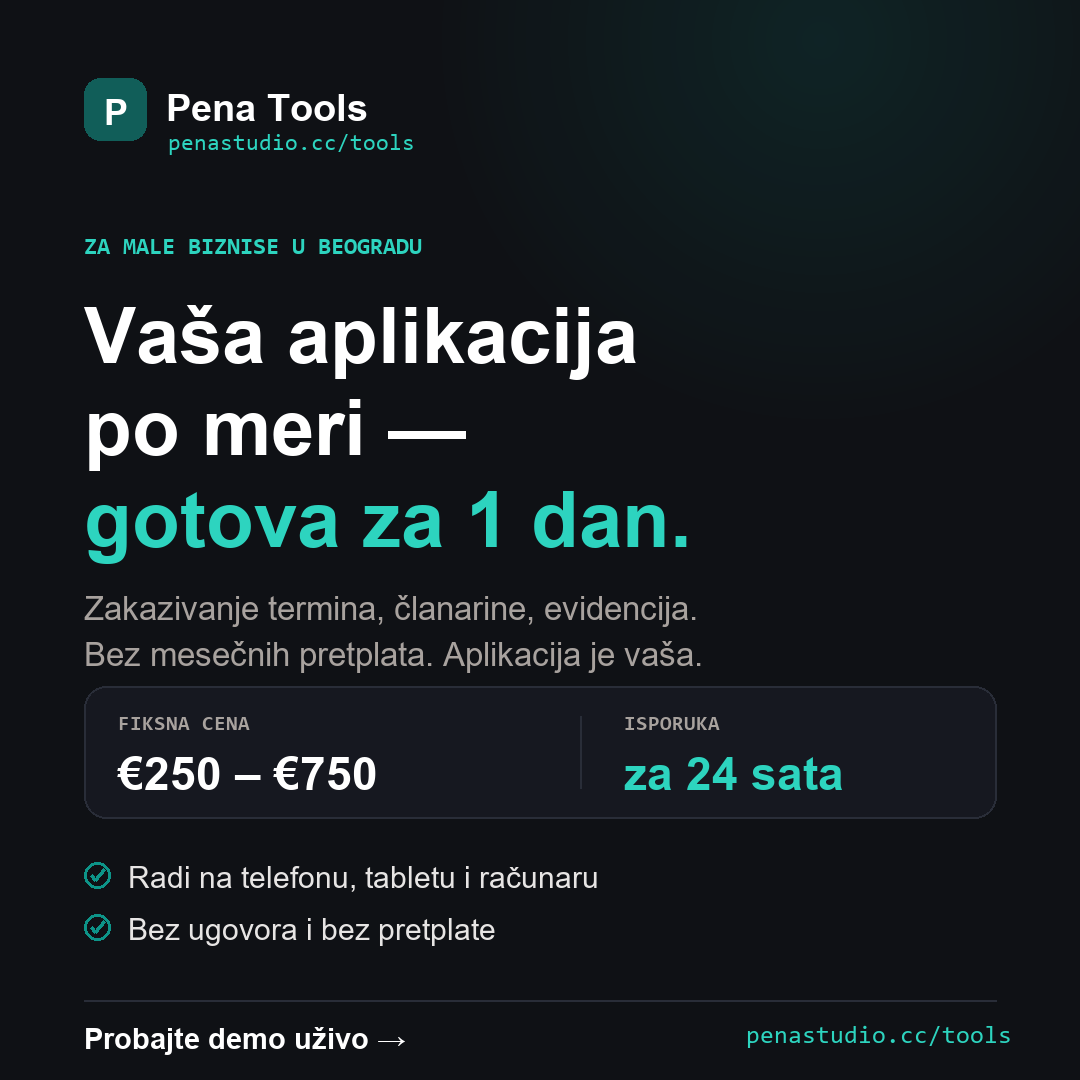
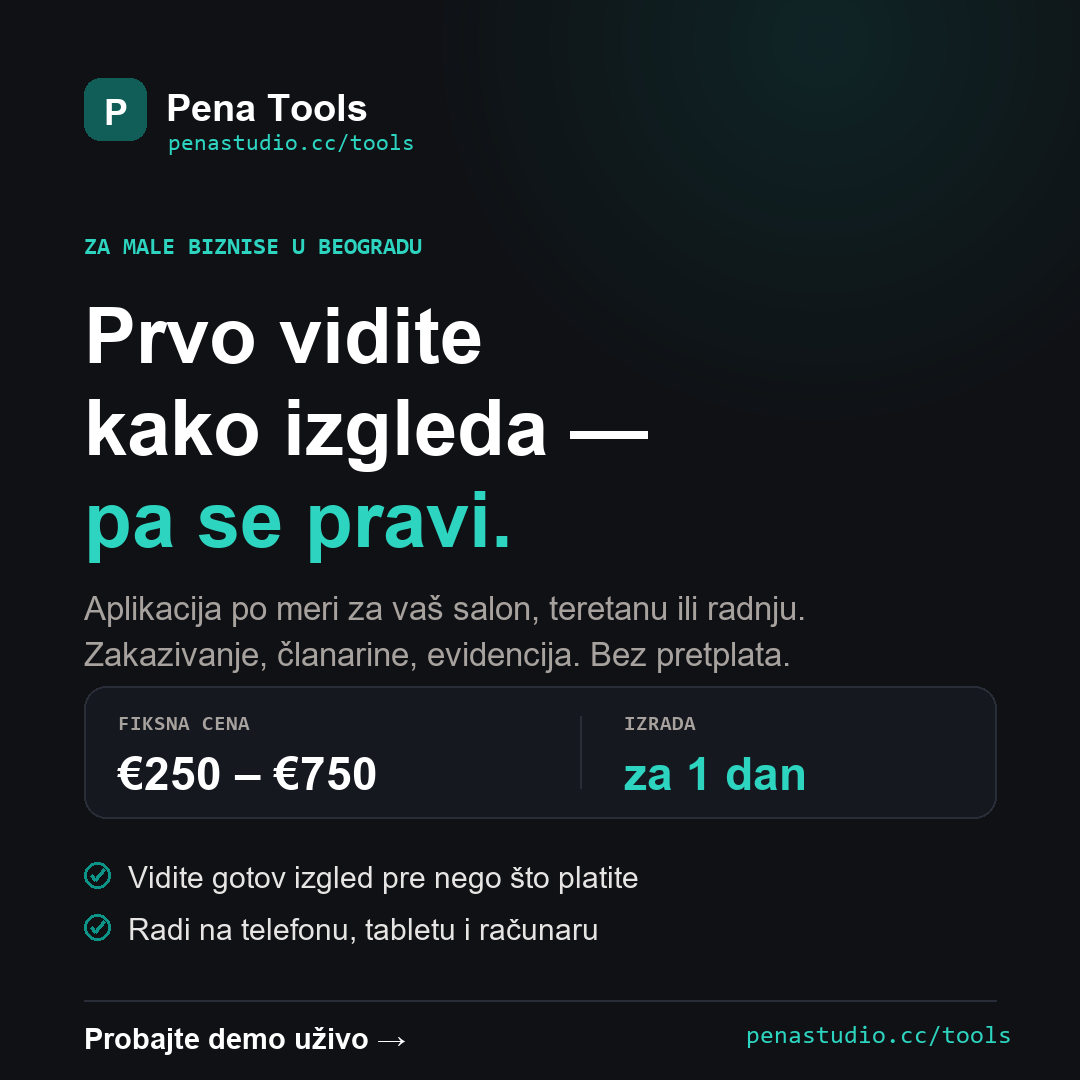
Explain the 1-day promise: design first, approve, then build
The flat "delivered in 24 hours" claim skipped the part that actually sells
this and de-risks it for the buyer: they see finished screens of their own
app before anything is written, and revise them for free.

- How it works is now 4 steps (idea -> design -> your changes -> next day),
  grid widened to hold them
- FAQ "how is one day possible" now has a real answer: by build day every
  decision is already approved, so the day is execution, not discovery
- hero trust point leads with "you approve the design first" rather than a
  bare 24h claim, which was the weakest promise to make and the easiest to
  break on a nights-and-weekends schedule
- "what's included" lists the 2-3 screen designs and free design revisions
- pricing CTA line: you only pay once you approve

Instagram asset re-cut to match - it previously advertised "isporuka za 24
sata", which is no longer what is being promised.

diff --git a/tools-src/src/translations.ts b/tools-src/src/translations.ts
@@ -19,7 +19,7 @@ export const translations: Record<Language, TranslationContent> = {
       ctaPrimary: 'Get a free demo',
       ctaSecondary: 'Try live demos',
       trustPoints: [
-        'Delivered in 24 hours',
+        'You approve the design first',
         'Fixed fee €250 – €750',
         'You own it — 100% no lock-in',
       ],
@@ -71,41 +71,53 @@ export const translations: Record<Language, TranslationContent> = {
       ],
     },
     howItWorks: {
-      eyebrow: 'Clear 3-Step Process',
-      title: 'How it works: from idea to live tool in 24 hours',
+      eyebrow: 'Clear 4-Step Process',
+      title: 'How it works: you see the design before anything is built',
       subtitle:
-        'No endless meetings. No 40-page requirement documents. You show me what you track, I build it.',
+        'No endless meetings. No 40-page requirement documents. You tell me what you track, I show you the screens, and only then do I build.',
       steps: [
         {
           stepNumber: '01',
-          title: 'We talk (30 min)',
-          timeframe: 'Morning or afternoon call',
+          title: 'You tell me the idea',
+          timeframe: '30-minute call',
           description:
-            'A 30-minute phone call or WhatsApp screen share. You show me your notebook, your chat, or your sheet and tell me what drives you crazy.',
+            'A phone call or WhatsApp screen share. You show me your notebook, your chat, or your sheet and tell me what drives you crazy.',
           details: [
             'No technical preparation required',
-            'I ask about your daily routine',
-            'We agree on exactly what belongs on the screen',
+            'We talk in plain language about your day',
+            'We agree on what belongs on the screen',
           ],
         },
         {
           stepNumber: '02',
-          title: 'We build it that night',
-          timeframe: 'Overnight delivery',
+          title: 'I send you the design',
+          timeframe: 'Same day',
           description:
-            'I code a clean, fast web app tailored to your exact business workflow. Only the buttons and fields you actually use.',
+            'Two or three real screen designs of your app - your services, your staff, your prices. Not a template: the actual thing you will be tapping.',
           details: [
-            'Optimized for mobile, tablet, and counter PC',
-            'Fast loading, no slow bloated menus',
-            'Automatic backups and simple data view',
+            '2-3 finished screens, not sketches',
+            'Your own data used as the example',
+            'You see it before a single line is written',
           ],
         },
         {
           stepNumber: '03',
-          title: 'You use it tomorrow',
-          timeframe: 'Next day morning',
+          title: 'You ask for changes',
+          timeframe: 'Same day',
           description:
-            'You get a private link. Tap "Add to Home Screen" on your phone or tablet and start using it immediately with your staff.',
+            'Move a button, rename a field, drop something you will never use, add something I missed. Changes at this stage are free and instant.',
+          details: [
+            'Nothing gets built until you approve',
+            'Changing a picture is cheap, changing an app is not',
+            'As many rounds as it takes to get it right',
+          ],
+        },
+        {
+          stepNumber: '04',
+          title: 'You get it the next day',
+          timeframe: 'Next day',
+          description:
+            'Once you approve the design I build it in a day. You get a private link, tap "Add to Home Screen", and start using it with your staff.',
           details: [
             'Short 3-minute video showing how it works',
             '14 days of free minor adjustments included',
@@ -171,7 +183,9 @@ export const translations: Record<Language, TranslationContent> = {
       includedItems: [
         'Complete custom web application tailored to your business',
         'Works seamlessly on iPhone, Android, iPad, and counter PC',
-        'Personal 30-minute kickoff & 1-day turnaround',
+        '2-3 finished screen designs to approve before anything is built',
+        'Free design revisions until you are happy with it',
+        'Personal 30-minute kickoff, built the day you approve',
         '3-minute custom staff video tutorial',
         '14 days of free minor tweaks and text adjustments',
         'Full export of all your customer & appointment data anytime',
@@ -193,7 +207,7 @@ export const translations: Record<Language, TranslationContent> = {
         {
           question: 'How can you realistically build an app in a single day?',
           answer:
-            'Because we don’t build giant, bloated systems with features you will never use. We build hyper-focused tools designed solely for your specific daily routine. Since I do not carry corporate overhead or agency bureaucracy, a focused 8-hour sprint is more than enough to deliver a clean, battle-tested tool.',
+            'Because by the time I start building, every decision is already made. You approve two or three finished screen designs first, so the build day is pure execution - no guessing, no rewrites, no "actually, can we move that". Add the fact that these are hyper-focused tools for one daily routine rather than bloated systems, and no agency overhead, and a focused day is more than enough.',
         },
         {
           question: 'What if I need changes or extra features later on?',
@@ -269,7 +283,7 @@ export const translations: Record<Language, TranslationContent> = {
       ctaPrimary: 'Zatražite besplatan demo',
       ctaSecondary: 'Pogledajte primere uživo',
       trustPoints: [
-        'Isporuka za 24 sata',
+        'Prvo odobrite izgled',
         'Fiksna cena €250 – €750',
         'Aplikacija je vaša — bez pretplate i ugovora',
       ],
@@ -321,41 +335,53 @@ export const translations: Record<Language, TranslationContent> = {
       ],
     },
     howItWorks: {
-      eyebrow: 'Jasna 3 koraka',
-      title: 'Kako funkcioniše: od ideje do gotovog alata za 24h',
+      eyebrow: 'Jasna 4 koraka',
+      title: 'Kako funkcioniše: izgled vidite pre nego što se išta napravi',
       subtitle:
-        'Bez beskrajnih sastanaka i bez nerazumljivih tehničkih termina. Pokažete mi šta vodite, a ja to napravim.',
+        'Bez beskrajnih sastanaka i nerazumljivih tehničkih termina. Kažete mi šta vodite, ja vam pokažem ekrane, i tek onda pravim aplikaciju.',
       steps: [
         {
           stepNumber: '01',
-          title: 'Čujemo se (30 min)',
-          timeframe: 'Jutarnji ili popodnevni razgovor',
+          title: 'Ispričate mi ideju',
+          timeframe: 'Razgovor od 30 min',
           description:
             'Kratak poziv ili WhatsApp razgovor. Pokažete mi vašu svesku, tabelu ili poruke i kažete mi šta vas najviše usporava.',
           details: [
             'Nije vam potrebno nikakvo tehničko predznanje',
             'Pričamo normalnim jezikom o vašem radnom danu',
-            'Zajedno definišemo samo ono što vam stvarno treba',
+            'Zajedno definišemo šta treba da stoji na ekranu',
           ],
         },
         {
           stepNumber: '02',
-          title: 'Pravim aplikaciju preko noći',
-          timeframe: 'Izrada u toku večeri',
+          title: 'Šaljem vam izgled aplikacije',
+          timeframe: 'Isti dan',
           description:
-            'Pišem čist i brz veb program prilagođen tačno vašim koracima. Samo ona dugmad i polja koja koristite.',
+            'Dva do tri prava prikaza ekrana vaše aplikacije - vaše usluge, vaši radnici, vaše cene. Nije šablon, nego tačno ono što ćete dodirivati.',
           details: [
-            'Prilagođeno za telefon, tablet i računar na pultu',
-            'Otvara se u sekundi, bez komplikovanih menija',
-            'Automatsko čuvanje podataka i jednostavan pregled',
+            '2-3 gotova ekrana, ne skice',
+            'Kao primer koriste se vaši podaci',
+            'Vidite sve pre nego što je napisana ijedna linija koda',
           ],
         },
         {
           stepNumber: '03',
-          title: 'Koristite je već sutra',
-          timeframe: 'Sledećeg jutra',
+          title: 'Tražite izmene',
+          timeframe: 'Isti dan',
           description:
-            'Dobijate vaš privatni link. Sačuvate ga na početni ekran telefona ili tableta i odmah počinjete sa radom.',
+            'Pomerite dugme, promenite naziv polja, izbacite ono što nikada nećete koristiti, dodajte ono što sam propustio. Izmene u ovoj fazi su besplatne i odmah vidljive.',
+          details: [
+            'Ništa se ne pravi dok vi ne kažete da je u redu',
+            'Izmena slike je jeftina, izmena gotove aplikacije nije',
+            'Ponavljamo dok ne bude tačno kako treba',
+          ],
+        },
+        {
+          stepNumber: '04',
+          title: 'Dobijate je već sutradan',
+          timeframe: 'Sutradan',
+          description:
+            'Kada odobrite izgled, izrada traje jedan dan. Dobijate privatni link, sačuvate ga na početni ekran i odmah počinjete sa radom.',
           details: [
             'Kratak video od 3 minuta koji objašnjava sve',
             '14 dana besplatnih sitnih izmena uključeno',
@@ -421,7 +447,9 @@ export const translations: Record<Language, TranslationContent> = {
       includedItems: [
         'Kompletna aplikacija napravljena tačno po vašem poslu',
         'Savršeno radi na mobilnom, tabletu i računaru',
-        'Uvodni razgovor od 30 min i isporuka za 1 dan',
+        '2-3 gotova prikaza ekrana koje odobravate pre izrade',
+        'Besplatne izmene izgleda dok ne budete zadovoljni',
+        'Uvodni razgovor od 30 min, izrada čim odobrite',
         'Kratak 3-minutni video za vas i vaše zaposlene',
         '14 dana besplatnih sitnih dorada i prilagođavanja',
         'Preuzimanje svih vaših podataka u Eksel kad god poželite',
@@ -443,7 +471,7 @@ export const translations: Record<Language, TranslationContent> = {
         {
           question: 'Kako je moguće napraviti aplikaciju za samo jedan dan?',
           answer:
-            'Zato što ne pravimo prekomplikovane programe sa stotinu funkcija koje nikada nećete otvoriti. Pravimo precizan, čist alat fokusiran samo na vašu dnevnu rutinu. Kako ne radim kroz birokratiju velikih agencija, fokusiran rad od jednog dana je sasvim dovoljan za stabilan i brz program.',
+            'Zato što su do početka izrade sve odluke već donete. Prvo odobrite dva do tri gotova prikaza ekrana, pa je dan izrade čisto izvođenje - bez nagađanja, bez prepravki, bez „a može li ovo ipak drugačije”. Dodajte na to da pravimo precizan alat za jednu dnevnu rutinu, a ne prekomplikovan program, i da nema agencijske birokratije - jedan fokusiran dan je sasvim dovoljan.',
         },
         {
           question: 'Šta ako mi kasnije zatrebaju izmene ili nove funkcije?',
@@ -517,7 +545,7 @@ export const translations: Record<Language, TranslationContent> = {
       ctaPrimary: 'Ücretsiz demo isteyin',
       ctaSecondary: 'Canlı demoları deneyin',
       trustPoints: [
-        '24 saatte teslim',
+        'Önce tasarımı onaylarsınız',
         'Sabit fiyat: €250 – €750',
         'Yazılım tamamen sizin — aylık aidat yok',
       ],
@@ -569,41 +597,53 @@ export const translations: Record<Language, TranslationContent> = {
       ],
     },
     howItWorks: {
-      eyebrow: '3 Adımlı Net Süreç',
-      title: 'Nasıl çalışır: Fikirden çalışan uygulamaya 24 saat',
+      eyebrow: '4 Adımlı Net Süreç',
+      title: 'Nasıl çalışır: tasarımı hiçbir şey kodlanmadan önce görürsünüz',
       subtitle:
-        'Uzayıp giden toplantılar yok. Teknik jargona boğulmak yok. Neyin takibini yaptığınızı gösterirsiniz, ben de kodlarım.',
+        'Uzayıp giden toplantılar yok, teknik jargon yok. Neyi takip ettiğinizi anlatırsınız, ben size ekranları gösteririm, ancak ondan sonra kodlarım.',
       steps: [
         {
           stepNumber: '01',
-          title: 'Konuşuruz (30 dk)',
-          timeframe: 'Sabah veya öğleden sonra görüşmesi',
+          title: 'Fikrinizi anlatırsınız',
+          timeframe: '30 dakikalık görüşme',
           description:
-            '30 dakikalık telefon veya WhatsApp görüşmesi. Defterinizi, mesajlarınızı veya tablonuzu gösterirsiniz; sizi en çok neyin yorduğunu anlatırsınız.',
+            'Telefon veya WhatsApp görüşmesi. Defterinizi, tablonuzu veya mesajlarınızı gösterirsiniz; sizi en çok neyin yorduğunu anlatırsınız.',
           details: [
             'Hiçbir teknik hazırlık yapmanıza gerek yok',
             'Günlük iş akışınızı sade bir dille konuşuruz',
-            'Ekranda sadece gerçekten gerekenleri belirleriz',
+            'Ekranda ne olacağına birlikte karar veririz',
           ],
         },
         {
           stepNumber: '02',
-          title: 'O gece kodlarım',
-          timeframe: 'Gece boyu geliştirme',
+          title: 'Size tasarımı gönderirim',
+          timeframe: 'Aynı gün',
           description:
-            'Tam olarak sizin iş yapış biçiminize göre optimize edilmiş, hızlı ve temiz bir web uygulaması yazarım. Sadece kullandığınız butonlar yer alır.',
+            'Uygulamanızın iki üç gerçek ekran tasarımı - kendi hizmetleriniz, kendi personeliniz, kendi fiyatlarınız. Şablon değil, parmağınızla dokunacağınız şeyin ta kendisi.',
           details: [
-            'Telefon, tablet ve kasa bilgisayarına tam uyumlu',
-            'Hızlı açılır, hantal menüler içermez',
-            'Otomatik veri güvenliği ve basit raporlama',
+            '2-3 bitmiş ekran, taslak değil',
+            'Örnek olarak kendi verileriniz kullanılır',
+            'Tek satır kod yazılmadan önce görürsünüz',
           ],
         },
         {
           stepNumber: '03',
-          title: 'Yarın kullanmaya başlarsınız',
-          timeframe: 'Ertesi sabah',
+          title: 'Değişiklik istersiniz',
+          timeframe: 'Aynı gün',
           description:
-            'Size özel linkinizi alırsınız. Telefonunuza veya tabletinize "Ana Ekrana Ekle" diyerek personelinizle hemen kullanmaya başlarsınız.',
+            'Butonu kaydırın, alanın adını değiştirin, hiç kullanmayacağınız şeyi çıkarın, atladığım şeyi ekleyin. Bu aşamadaki değişiklikler ücretsiz ve anında.',
+          details: [
+            'Siz onaylamadan hiçbir şey kodlanmaz',
+            'Resmi değiştirmek ucuz, bitmiş uygulamayı değiştirmek değil',
+            'Doğru olana kadar istediğiniz kadar tekrar ederiz',
+          ],
+        },
+        {
+          stepNumber: '04',
+          title: 'Ertesi gün teslim alırsınız',
+          timeframe: 'Ertesi gün',
+          description:
+            'Tasarımı onayladığınızda yapım bir gün sürer. Size özel linkinizi alır, "Ana Ekrana Ekle" der ve personelinizle hemen kullanmaya başlarsınız.',
           details: [
             'Nasıl çalıştığını gösteren 3 dakikalık video rehber',
             '14 gün boyunca ücretsiz ufak düzenleme hakkı',
@@ -669,7 +709,9 @@ export const translations: Record<Language, TranslationContent> = {
       includedItems: [
         'İşinize özel kodlanmış eksiksiz web uygulaması',
         'iPhone, Android, iPad ve bilgisayarda kusursuz çalışma',
-        '30 dakikalık başlangıç görüşmesi ve 24 saatte teslim',
+        'Yapımdan önce onaylayacağınız 2-3 bitmiş ekran tasarımı',
+        'Memnun kalana kadar ücretsiz tasarım revizyonu',
+        '30 dakikalık başlangıç görüşmesi, onayladığınız gün yapım',
         'Ekibiniz için 3 dakikalık özel video anlatım',
         '14 gün boyunca ücretsiz ufak düzenleme desteği',
         'İstediğiniz an tüm verilerinizi Excel olarak dışa aktarma',
@@ -691,7 +733,7 @@ export const translations: Record<Language, TranslationContent> = {
         {
           question: 'Gerçekten 1 günde bir uygulama nasıl yapılabiliyor?',
           answer:
-            'Çünkü asla kullanmayacağınız yüzlerce gereksiz özellikle dolu devasa yazılımlar yapmıyoruz. Sadece günlük rutininize odaklanmış, net ve hızlı araçlar üretiyoruz. Büyük ajans hantallığı ve toplantı trafiği olmadığı için, odaklanmış bir günlük çalışma kaliteli bir araç için fazlasıyla yeterlidir.',
+            'Çünkü yapıma başladığımda bütün kararlar çoktan verilmiş oluyor. Önce iki üç bitmiş ekran tasarımını onaylıyorsunuz; böylece yapım günü sadece uygulama oluyor - tahmin yok, baştan yazma yok, "aslında şunu şuraya alsak" yok. Üstüne bunların devasa sistemler değil tek bir günlük rutine odaklanmış araçlar olmasını ve ajans hantallığının bulunmamasını ekleyin - odaklanmış bir gün fazlasıyla yetiyor.',
         },
         {
           question: 'Daha sonra değişiklik veya yeni özellik istersem ne olur?',

diff --git a/tools-src/src/translations.ui.ts b/tools-src/src/translations.ui.ts
@@ -134,7 +134,7 @@ export const uiStrings: Record<Language, UiContent> = {
     directUrl: 'Direct link',
 
     fixedFeeBadge: 'Fixed 1-day project fee',
-    freeKickoff: 'Free 30-minute kickoff • No commitment',
+    freeKickoff: 'Free call + design • You only pay if you approve',
     includedTitle: 'What is included in the price:',
     neverPayTitle: 'What you will never pay for:',
 
@@ -223,7 +223,7 @@ export const uiStrings: Record<Language, UiContent> = {
     directUrl: 'Direktan link',
 
     fixedFeeBadge: 'Fiksna cena za jednodnevni projekat',
-    freeKickoff: 'Besplatan uvodni razgovor od 30 min • Bez obaveze',
+    freeKickoff: 'Razgovor i izgled besplatno • Plaćate tek kad odobrite',
     includedTitle: 'Šta je uključeno u cenu:',
     neverPayTitle: 'Šta nikada nećete plaćati:',
 
@@ -313,7 +313,7 @@ export const uiStrings: Record<Language, UiContent> = {
     directUrl: 'Doğrudan bağlantı',
 
     fixedFeeBadge: 'Bir günlük proje için sabit ücret',
-    freeKickoff: 'Ücretsiz 30 dakikalık başlangıç görüşmesi • Taahhüt yok',
+    freeKickoff: 'Görüşme ve tasarım ücretsiz • Onaylarsanız ödersiniz',
     includedTitle: 'Fiyata dahil olanlar:',
     neverPayTitle: 'Asla ödemeyeceğiniz şeyler:',
 

diff --git a/tools-src/src/components/HowItWorks.tsx b/tools-src/src/components/HowItWorks.tsx
@@ -29,7 +29,7 @@ export const HowItWorks: React.FC<HowItWorksProps> = ({ t, onGetFreeDemo }) => {
         </FadeIn>
 
         {/* 3 Numbered Steps Grid */}
-        <div className="mt-12 grid grid-cols-1 md:grid-cols-3 gap-6 relative">
+        <div className="mt-12 grid grid-cols-1 sm:grid-cols-2 lg:grid-cols-4 gap-6 relative">
           {t.howItWorks.steps.map((step, idx) => (
             <FadeIn
               key={idx}
